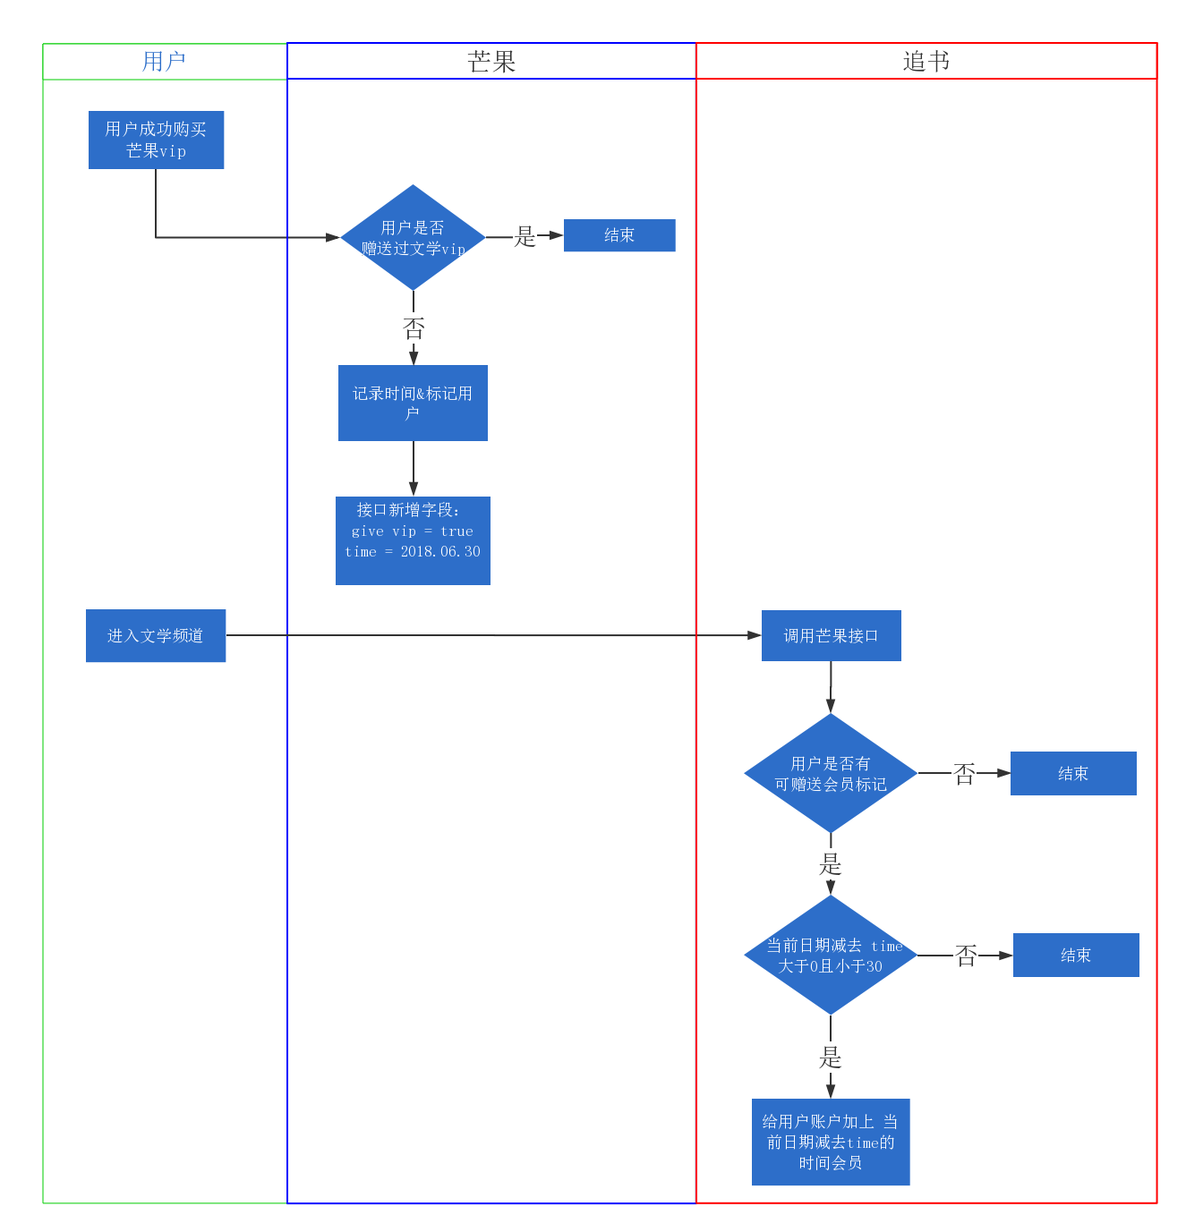
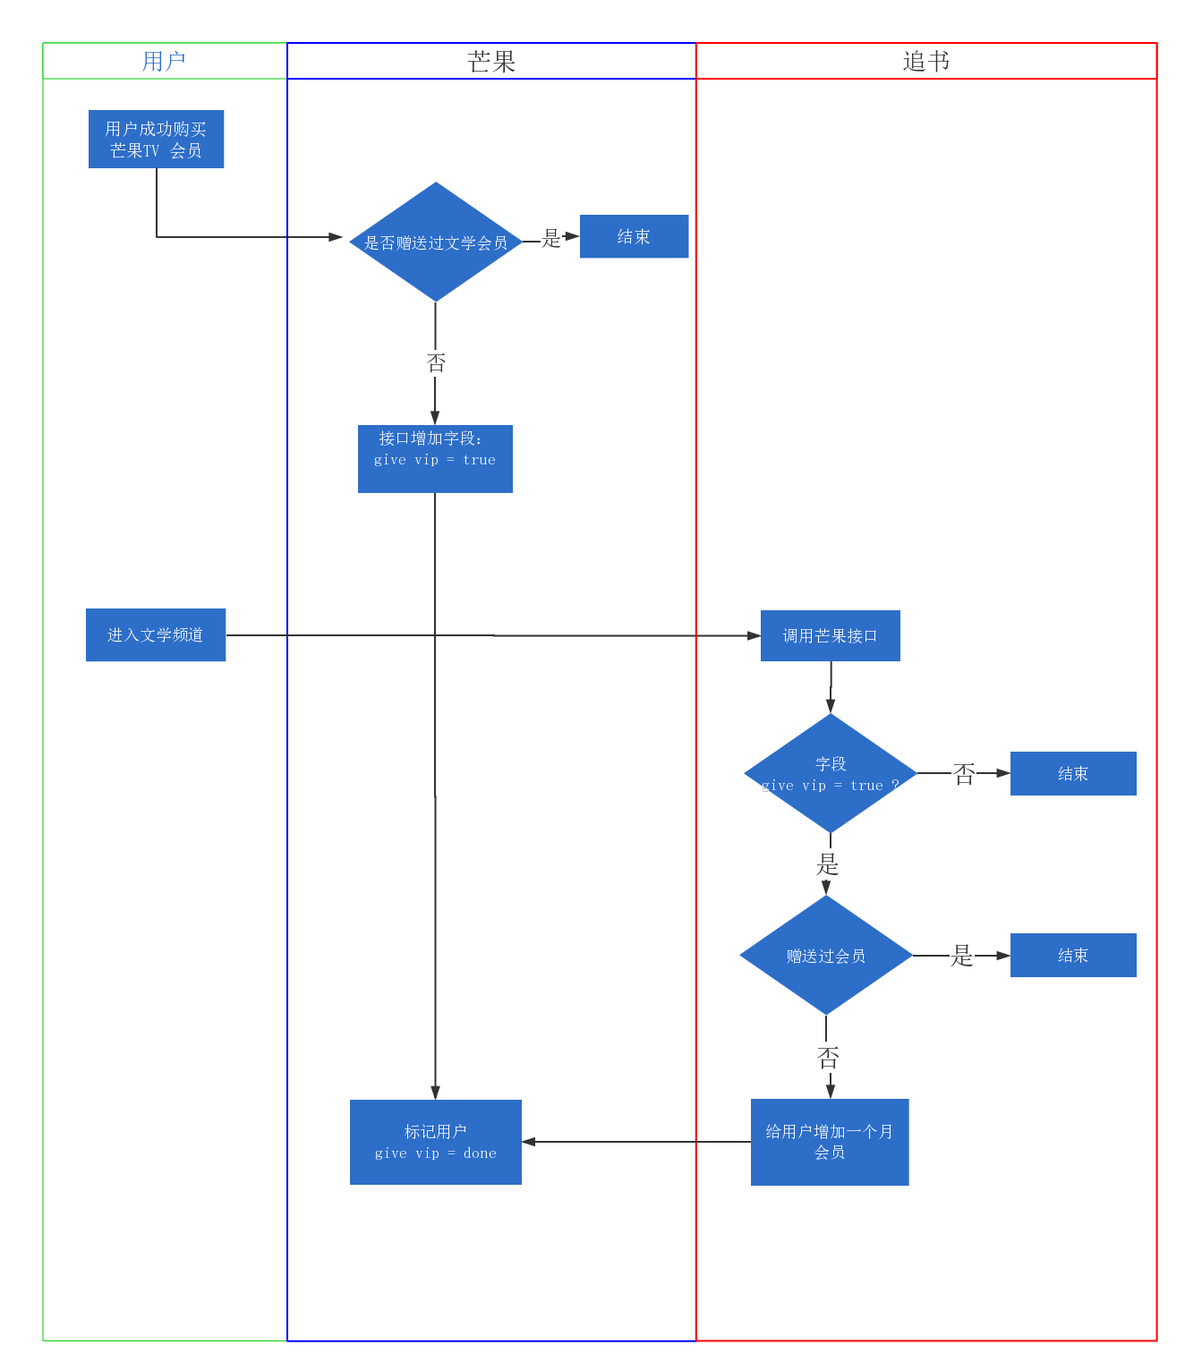
123
321

diff --git a/files/芒果会员送文学会员/data.js b/files/芒果会员送文学会员/data.js
@@ -2,6 +2,6 @@
 (function() {
     var _ = function() { var r={},a=arguments; for(var i=0; i<a.length; i+=2) r[a[i]]=a[i+1]; return r; }
     var _creator = function() { return _(b,c,d,e,f,g,h,g,i,[j],k,_(l,m,n,o,p,q,r,_(),s,_(t,u,v,w,x,_(y,z,A,B),C,null,D,w,E,w,F,G,H,null,I,J,K,L,M,N,O,J),P,_(),Q,_(),R,_(S,[_(T,U,V,W,X,Y,n,Z,ba,Z,bb,bc,s,_(bd,_(be,bf,bg,bh),t,bi,bj,_(bk,bl,bm,bn)),P,_(),bo,_(),S,[_(T,bp,V,W,X,null,bq,bc,n,br,ba,bs,bb,bc,s,_(bd,_(be,bf,bg,bh),t,bi,bj,_(bk,bl,bm,bn)),P,_(),bo,_())],bt,_(bu,bv)),_(T,bw,V,W,X,bx,n,by,ba,by,bb,bc,s,_(bd,_(be,bz,bg,bA),t,bB,bj,_(bk,bC,bm,bD),bE,_(y,z,A,B,bF,bG),x,_(y,z,A,bH)),P,_(),bo,_(),S,[_(T,bI,V,W,X,null,bq,bc,n,br,ba,bs,bb,bc,s,_(bd,_(be,bz,bg,bA),t,bB,bj,_(bk,bC,bm,bD),bE,_(y,z,A,B,bF,bG),x,_(y,z,A,bH)),P,_(),bo,_())],bJ,g),_(T,bK,V,W,X,Y,n,Z,ba,Z,bb,bc,s,_(bd,_(be,bL,bg,bM),t,bi,bj,_(bk,bN,bm,bO)),P,_(),bo,_(),S,[_(T,bP,V,W,X,null,bq,bc,n,br,ba,bs,bb,bc,s,_(bd,_(be,bL,bg,bM),t,bi,bj,_(bk,bN,bm,bO)),P,_(),bo,_())],bt,_(bu,bQ)),_(T,bR,V,W,X,bx,n,by,ba,by,bb,bc,s,_(bd,_(be,bS,bg,bT),t,bB,bj,_(bk,bU,bm,bV),bW,bX),P,_(),bo,_(),S,[_(T,bY,V,W,X,null,bq,bc,n,br,ba,bs,bb,bc,s,_(bd,_(be,bS,bg,bT),t,bB,bj,_(bk,bU,bm,bV),bW,bX),P,_(),bo,_())],bJ,g),_(T,bZ,V,W,X,ca,n,cb,ba,cb,bb,bc,s,_(bj,_(bk,cc,bm,cc)),P,_(),bo,_(),cd,[_(T,ce,V,W,X,bx,n,by,ba,by,bb,bc,s,_(bd,_(be,cf,bg,cg),t,ch,bj,_(bk,ci,bm,cj),M,ck,cl,cm,bW,cn),P,_(),bo,_(),S,[_(T,co,V,W,X,null,bq,bc,n,br,ba,bs,bb,bc,s,_(bd,_(be,cf,bg,cg),t,ch,bj,_(bk,ci,bm,cj),M,ck,cl,cm,bW,cn),P,_(),bo,_())],bJ,g),_(T,cp,V,W,X,bx,n,by,ba,by,bb,bc,s,_(bd,_(be,cq,bg,cr),t,ch,bj,_(bk,cs,bm,ct),M,ck,cu,cv),P,_(),bo,_(),S,[_(T,cw,V,W,X,null,bq,bc,n,br,ba,bs,bb,bc,s,_(bd,_(be,cq,bg,cr),t,ch,bj,_(bk,cs,bm,ct),M,ck,cu,cv),P,_(),bo,_())],bJ,g),_(T,cx,V,W,X,cy,n,by,ba,by,bb,bc,s,_(bd,_(be,cr,bg,cr),t,ch,bj,_(bk,cz,bm,cA),M,ck),P,_(),bo,_(),S,[_(T,cB,V,W,X,null,bq,bc,n,br,ba,bs,bb,bc,s,_(bd,_(be,cr,bg,cr),t,ch,bj,_(bk,cz,bm,cA),M,ck),P,_(),bo,_())],bt,_(bu,cC),bJ,g)],cD,g),_(T,ce,V,W,X,bx,n,by,ba,by,bb,bc,s,_(bd,_(be,cf,bg,cg),t,ch,bj,_(bk,ci,bm,cj),M,ck,cl,cm,bW,cn),P,_(),bo,_(),S,[_(T,co,V,W,X,null,bq,bc,n,br,ba,bs,bb,bc,s,_(bd,_(be,cf,bg,cg),t,ch,bj,_(bk,ci,bm,cj),M,ck,cl,cm,bW,cn),P,_(),bo,_())],bJ,g),_(T,cp,V,W,X,bx,n,by,ba,by,bb,bc,s,_(bd,_(be,cq,bg,cr),t,ch,bj,_(bk,cs,bm,ct),M,ck,cu,cv),P,_(),bo,_(),S,[_(T,cw,V,W,X,null,bq,bc,n,br,ba,bs,bb,bc,s,_(bd,_(be,cq,bg,cr),t,ch,bj,_(bk,cs,bm,ct),M,ck,cu,cv),P,_(),bo,_())],bJ,g),_(T,cx,V,W,X,cy,n,by,ba,by,bb,bc,s,_(bd,_(be,cr,bg,cr),t,ch,bj,_(bk,cz,bm,cA),M,ck),P,_(),bo,_(),S,[_(T,cB,V,W,X,null,bq,bc,n,br,ba,bs,bb,bc,s,_(bd,_(be,cr,bg,cr),t,ch,bj,_(bk,cz,bm,cA),M,ck),P,_(),bo,_())],bt,_(bu,cC),bJ,g),_(T,cE,V,W,X,bx,n,by,ba,by,bb,bc,s,_(bd,_(be,cF,bg,cG),t,cH,bj,_(bk,cI,bm,cJ),bE,_(y,z,A,cK,bF,bG),bW,cL),P,_(),bo,_(),S,[_(T,cM,V,W,X,null,bq,bc,n,br,ba,bs,bb,bc,s,_(bd,_(be,cF,bg,cG),t,cH,bj,_(bk,cI,bm,cJ),bE,_(y,z,A,cK,bF,bG),bW,cL),P,_(),bo,_())],bJ,g),_(T,cN,V,W,X,bx,n,by,ba,by,bb,bc,s,_(bd,_(be,cO,bg,cG),t,cH,bj,_(bk,cP,bm,cQ),bE,_(y,z,A,cK,bF,bG),bW,cL),P,_(),bo,_(),S,[_(T,cR,V,W,X,null,bq,bc,n,br,ba,bs,bb,bc,s,_(bd,_(be,cO,bg,cG),t,cH,bj,_(bk,cP,bm,cQ),bE,_(y,z,A,cK,bF,bG),bW,cL),P,_(),bo,_())],bJ,g),_(T,cS,V,W,X,bx,n,by,ba,by,bb,bc,s,_(cT,cU,bd,_(be,cV,bg,cW),t,cX,bj,_(bk,cY,bm,cZ)),P,_(),bo,_(),S,[_(T,da,V,W,X,null,bq,bc,n,br,ba,bs,bb,bc,s,_(cT,cU,bd,_(be,cV,bg,cW),t,cX,bj,_(bk,cY,bm,cZ)),P,_(),bo,_())],bJ,g),_(T,db,V,W,X,bx,n,by,ba,by,bb,bc,s,_(cT,cU,bd,_(be,dc,bg,cW),t,cX,bj,_(bk,dd,bm,cZ)),P,_(),bo,_(),S,[_(T,de,V,W,X,null,bq,bc,n,br,ba,bs,bb,bc,s,_(cT,cU,bd,_(be,dc,bg,cW),t,cX,bj,_(bk,dd,bm,cZ)),P,_(),bo,_())],bJ,g),_(T,df,V,W,X,Y,n,Z,ba,Z,bb,bc,s,_(bd,_(be,bf,bg,bh),t,bi,bj,_(bk,dg,bm,bn)),P,_(),bo,_(),S,[_(T,dh,V,W,X,null,bq,bc,n,br,ba,bs,bb,bc,s,_(bd,_(be,bf,bg,bh),t,bi,bj,_(bk,dg,bm,bn)),P,_(),bo,_())],bt,_(bu,bv)),_(T,di,V,W,X,Y,n,Z,ba,Z,bb,bc,s,_(bd,_(be,bf,bg,bh),t,bi,bj,_(bk,dj,bm,bn)),P,_(),bo,_(),S,[_(T,dk,V,W,X,null,bq,bc,n,br,ba,bs,bb,bc,s,_(bd,_(be,bf,bg,bh),t,bi,bj,_(bk,dj,bm,bn)),P,_(),bo,_())],bt,_(bu,bv)),_(T,dl,V,W,X,ca,n,cb,ba,cb,bb,bc,s,_(bj,_(bk,dm,bm,dn)),P,_(),bo,_(),cd,[_(T,dp,V,W,X,bx,n,by,ba,by,bb,bc,s,_(bd,_(be,cf,bg,cg),t,ch,bj,_(bk,dq,bm,dr),M,ck,cl,cm,bW,cn),P,_(),bo,_(),S,[_(T,ds,V,W,X,null,bq,bc,n,br,ba,bs,bb,bc,s,_(bd,_(be,cf,bg,cg),t,ch,bj,_(bk,dq,bm,dr),M,ck,cl,cm,bW,cn),P,_(),bo,_())],bJ,g),_(T,dt,V,W,X,bx,n,by,ba,by,bb,bc,s,_(bd,_(be,cq,bg,cr),t,ch,bj,_(bk,du,bm,dv),M,ck,cu,cv),P,_(),bo,_(),S,[_(T,dw,V,W,X,null,bq,bc,n,br,ba,bs,bb,bc,s,_(bd,_(be,cq,bg,cr),t,ch,bj,_(bk,du,bm,dv),M,ck,cu,cv),P,_(),bo,_())],bJ,g),_(T,dx,V,W,X,cy,n,by,ba,by,bb,bc,s,_(bd,_(be,cr,bg,cr),t,ch,bj,_(bk,dy,bm,dz),M,ck),P,_(),bo,_(),S,[_(T,dA,V,W,X,null,bq,bc,n,br,ba,bs,bb,bc,s,_(bd,_(be,cr,bg,cr),t,ch,bj,_(bk,dy,bm,dz),M,ck),P,_(),bo,_())],bt,_(bu,cC),bJ,g)],cD,g),_(T,dp,V,W,X,bx,n,by,ba,by,bb,bc,s,_(bd,_(be,cf,bg,cg),t,ch,bj,_(bk,dq,bm,dr),M,ck,cl,cm,bW,cn),P,_(),bo,_(),S,[_(T,ds,V,W,X,null,bq,bc,n,br,ba,bs,bb,bc,s,_(bd,_(be,cf,bg,cg),t,ch,bj,_(bk,dq,bm,dr),M,ck,cl,cm,bW,cn),P,_(),bo,_())],bJ,g),_(T,dt,V,W,X,bx,n,by,ba,by,bb,bc,s,_(bd,_(be,cq,bg,cr),t,ch,bj,_(bk,du,bm,dv),M,ck,cu,cv),P,_(),bo,_(),S,[_(T,dw,V,W,X,null,bq,bc,n,br,ba,bs,bb,bc,s,_(bd,_(be,cq,bg,cr),t,ch,bj,_(bk,du,bm,dv),M,ck,cu,cv),P,_(),bo,_())],bJ,g),_(T,dx,V,W,X,cy,n,by,ba,by,bb,bc,s,_(bd,_(be,cr,bg,cr),t,ch,bj,_(bk,dy,bm,dz),M,ck),P,_(),bo,_(),S,[_(T,dA,V,W,X,null,bq,bc,n,br,ba,bs,bb,bc,s,_(bd,_(be,cr,bg,cr),t,ch,bj,_(bk,dy,bm,dz),M,ck),P,_(),bo,_())],bt,_(bu,cC),bJ,g),_(T,dB,V,W,X,cy,n,by,ba,by,bb,bc,s,_(bd,_(be,dC,bg,dC),t,dD,bj,_(bk,dg,bm,dE),x,_(y,z,A,dF)),P,_(),bo,_(),S,[_(T,dG,V,W,X,null,bq,bc,n,br,ba,bs,bb,bc,s,_(bd,_(be,dC,bg,dC),t,dD,bj,_(bk,dg,bm,dE),x,_(y,z,A,dF)),P,_(),bo,_())],bt,_(bu,dH),bJ,g),_(T,dI,V,W,X,dJ,n,by,ba,dK,bb,bc,s,_(bd,_(be,dL,bg,dM),t,dN,bj,_(bk,dO,bm,dP),O,dQ,dR,_(y,z,A,dS),dT,dU,dV,dU),P,_(),bo,_(),S,[_(T,dW,V,W,X,null,bq,bc,n,br,ba,bs,bb,bc,s,_(bd,_(be,dL,bg,dM),t,dN,bj,_(bk,dO,bm,dP),O,dQ,dR,_(y,z,A,dS),dT,dU,dV,dU),P,_(),bo,_())],bt,_(bu,dX),bJ,bc,dY,[dZ,ea],bt,_(dZ,_(bu,eb),ea,_(bu,ec),bu,dX))])),ed,_(),ee,_(ef,_(eg,eh),ei,_(eg,ej),ek,_(eg,el),em,_(eg,en),eo,_(eg,ep),eq,_(eg,er),es,_(eg,et),eu,_(eg,ev),ew,_(eg,ex),ey,_(eg,ez),eA,_(eg,eB),eC,_(eg,eD),eE,_(eg,eF),eG,_(eg,eH),eI,_(eg,eJ),eK,_(eg,eL),eM,_(eg,eN),eO,_(eg,eP),eQ,_(eg,eR),eS,_(eg,eT),eU,_(eg,eV),eW,_(eg,eX),eY,_(eg,eZ),fa,_(eg,fb),fc,_(eg,fd),fe,_(eg,ff),fg,_(eg,fh),fi,_(eg,fj),fk,_(eg,fl),fm,_(eg,fn),fo,_(eg,fp),fq,_(eg,fr),fs,_(eg,ft),fu,_(eg,fv),fw,_(eg,fx),fy,_(eg,fz),fA,_(eg,fB),fC,_(eg,fD)));}; 
-var b="url",c="芒果会员送文学会员.html",d="generationDate",e=new Date(1530515847971.73),f="isCanvasEnabled",g=false,h="isAdaptiveEnabled",i="variables",j="OnLoadVariable",k="page",l="packageId",m="021b88ffa0224ed7982f22ff8a187bc5",n="type",o="Axure:Page",p="name",q="芒果会员送文学会员",r="notes",s="style",t="baseStyle",u="627587b6038d43cca051c114ac41ad32",v="pageAlignment",w="near",x="fill",y="fillType",z="solid",A="color",B=0xFFFFFFFF,C="image",D="imageHorizontalAlignment",E="imageVerticalAlignment",F="imageRepeat",G="auto",H="favicon",I="sketchFactor",J="0",K="colorStyle",L="appliedColor",M="fontName",N="Applied Font",O="borderWidth",P="adaptiveStyles",Q="interactionMap",R="diagram",S="objects",T="id",U="77c4c538c2cf413da49fbb4011884fb5",V="label",W="",X="friendlyType",Y="图片",Z="imageBox",ba="styleType",bb="visible",bc=true,bd="size",be="width",bf=368,bg="height",bh=670,bi="75a91ee5b9d042cfa01b8d565fe289c0",bj="location",bk="x",bl=206.75,bm="y",bn=656.75,bo="imageOverrides",bp="b71bf5fc64024671bc5188ee6166d472",bq="isContained",br="richTextPanel",bs="paragraph",bt="images",bu="normal~",bv="images/芒果会员送文学会员/u0.jpeg",bw="3fe9651a6d9c41eea3663d3adb21a2d4",bx="矩形",by="vectorShape",bz=814,bA=138,bB="8c7a4c5ad69a4369a5f7788171ac0b32",bC=67,bD=21,bE="foreGroundFill",bF="opacity",bG=1,bH=0xFF0099FF,bI="aa1e7b087da54308afc25722f6915cfb",bJ="generateCompound",bK="8d8e5f1934d3438aafe4f298c9423ea7",bL=1320,bM=1377,bN=101,bO=1783.5,bP="df25000fa3164e4b8d8f30d7cd1307db",bQ="images/芒果会员送文学会员/u4.png",bR="8f5c337b1dd4477d911d0801567db50c",bS=1269,bT=191,bU=139,bV=1518.5,bW="fontSize",bX="20px",bY="132102fac1494bc6ae23631245573ee6",bZ="17d888d8fb264764aa5e8947208f24ea",ca="组合",cb="layer",cc=0,cd="objs",ce="d5fb9875a6854e0ab7a809bff0fa54da",cf=270,cg=156,ch="4b7bfc596114427989e10bb0b557d0ce",ci=252.75,cj=943.75,ck="'PingFangSC-Regular', 'PingFang SC'",cl="verticalAlignment",cm="top",cn="16px",co="b0f741b240b0463eb9131dfaf3c468e2",cp="0b55387f8a614d27a407226d0d0d28a5",cq=146,cr=35,cs=316.75,ct=1059.75,cu="cornerRadius",cv="5",cw="737b59bbd2074d968cc6156161a74677",cx="0063a460c9c748dc8b26d8bddecdf03a",cy="椭圆形",cz=502.75,cA=925.75,cB="2fcda6c066294764aa8005c8c84c39d0",cC="images/芒果会员送文学会员/u13.png",cD="propagate",cE="d42d20ab182243d38f0c6986b0f3944c",cF=113,cG=40,cH="1111111151944dfba49f67fd55eb1f88",cI=132,cJ=1430.5,cK=0xFF0000FF,cL="28px",cM="c615bca7149e4e20821394f8f2c1d75e",cN="806bcfa77c694141adfccde7a7f3e934",cO=141,cP=92.75,cQ=386.75,cR="ffad2ed67a1643f8b8f84d0e854789a2",cS="abba3e1d7d26402aaa1eebcab00b8fb7",cT="fontWeight",cU="700",cV=492,cW=33,cX="b3a15c9ddde04520be40f94c8168891e",cY=172.75,cZ=488.75,da="c170e74302ff411cb6e339be385e2a5d",db="1ea6e22a34184193b600432822d66a1d",dc=732,dd=865.75,de="39bae910631b4fff856905638dda8ada",df="e727c8ec81024bc8ad08072d42302b28",dg=887.75,dh="de40fdf4a7b548a5859f6bd12b5dbeb1",di="0a1e934cadb24117b7d619914fdbc300",dj=1478.75,dk="8cc4bbc239fb482bad2f5b2a7026b217",dl="32263910f1424a0098128aacf02fb4c4",dm=920.25,dn=662,dp="bbce7ce89b624f20b978b5c78d456ca5",dq=1526.75,dr=931.75,ds="9e34a479255e493d95ad57998387bfc4",dt="2d9814a5c0c74c07a4aff98e73f8e22b",du=1590.75,dv=1047.75,dw="f6f568b5f6224d968810ce22780fd305",dx="f4bbd4e613e34fed80ae02e58f9b42cd",dy=1776.75,dz=913.75,dA="b1084b8a35cf43f6966bb48cafeed3e9",dB="027bbe82cbda485188f5d9b493d488d4",dC=50,dD="7bfbf33582fc47a88668e6787c8e3e9b",dE=682.75,dF=0x389966FF,dG="ed94f4becd7b4746943b01f020ad8092",dH="images/芒果会员送文学会员/u34.png",dI="3710c92bf0d540158eefc092150f57e4",dJ="水平线",dK="horizontalLine",dL=622,dM=2,dN="619b2148ccc1497285562264d51992f9",dO=896.75,dP=871.75,dQ="2",dR="borderFill",dS=0xFF9966FF,dT="rotation",dU="30",dV="textRotation",dW="6dd81b687cc44837b050241276e8d9c2",dX="images/芒果会员送文学会员/u36.png",dY="compoundChildren",dZ="p000",ea="p001",eb="images/芒果会员送文学会员/u36p000.png",ec="images/芒果会员送文学会员/u36p001.png",ed="masters",ee="objectPaths",ef="77c4c538c2cf413da49fbb4011884fb5",eg="scriptId",eh="u0",ei="b71bf5fc64024671bc5188ee6166d472",ej="u1",ek="3fe9651a6d9c41eea3663d3adb21a2d4",el="u2",em="aa1e7b087da54308afc25722f6915cfb",en="u3",eo="8d8e5f1934d3438aafe4f298c9423ea7",ep="u4",eq="df25000fa3164e4b8d8f30d7cd1307db",er="u5",es="8f5c337b1dd4477d911d0801567db50c",et="u6",eu="132102fac1494bc6ae23631245573ee6",ev="u7",ew="17d888d8fb264764aa5e8947208f24ea",ex="u8",ey="d5fb9875a6854e0ab7a809bff0fa54da",ez="u9",eA="b0f741b240b0463eb9131dfaf3c468e2",eB="u10",eC="0b55387f8a614d27a407226d0d0d28a5",eD="u11",eE="737b59bbd2074d968cc6156161a74677",eF="u12",eG="0063a460c9c748dc8b26d8bddecdf03a",eH="u13",eI="2fcda6c066294764aa8005c8c84c39d0",eJ="u14",eK="d42d20ab182243d38f0c6986b0f3944c",eL="u15",eM="c615bca7149e4e20821394f8f2c1d75e",eN="u16",eO="806bcfa77c694141adfccde7a7f3e934",eP="u17",eQ="ffad2ed67a1643f8b8f84d0e854789a2",eR="u18",eS="abba3e1d7d26402aaa1eebcab00b8fb7",eT="u19",eU="c170e74302ff411cb6e339be385e2a5d",eV="u20",eW="1ea6e22a34184193b600432822d66a1d",eX="u21",eY="39bae910631b4fff856905638dda8ada",eZ="u22",fa="e727c8ec81024bc8ad08072d42302b28",fb="u23",fc="de40fdf4a7b548a5859f6bd12b5dbeb1",fd="u24",fe="0a1e934cadb24117b7d619914fdbc300",ff="u25",fg="8cc4bbc239fb482bad2f5b2a7026b217",fh="u26",fi="32263910f1424a0098128aacf02fb4c4",fj="u27",fk="bbce7ce89b624f20b978b5c78d456ca5",fl="u28",fm="9e34a479255e493d95ad57998387bfc4",fn="u29",fo="2d9814a5c0c74c07a4aff98e73f8e22b",fp="u30",fq="f6f568b5f6224d968810ce22780fd305",fr="u31",fs="f4bbd4e613e34fed80ae02e58f9b42cd",ft="u32",fu="b1084b8a35cf43f6966bb48cafeed3e9",fv="u33",fw="027bbe82cbda485188f5d9b493d488d4",fx="u34",fy="ed94f4becd7b4746943b01f020ad8092",fz="u35",fA="3710c92bf0d540158eefc092150f57e4",fB="u36",fC="6dd81b687cc44837b050241276e8d9c2",fD="u37";
+var b="url",c="芒果会员送文学会员.html",d="generationDate",e=new Date(1530518861386.24),f="isCanvasEnabled",g=false,h="isAdaptiveEnabled",i="variables",j="OnLoadVariable",k="page",l="packageId",m="021b88ffa0224ed7982f22ff8a187bc5",n="type",o="Axure:Page",p="name",q="芒果会员送文学会员",r="notes",s="style",t="baseStyle",u="627587b6038d43cca051c114ac41ad32",v="pageAlignment",w="near",x="fill",y="fillType",z="solid",A="color",B=0xFFFFFFFF,C="image",D="imageHorizontalAlignment",E="imageVerticalAlignment",F="imageRepeat",G="auto",H="favicon",I="sketchFactor",J="0",K="colorStyle",L="appliedColor",M="fontName",N="Applied Font",O="borderWidth",P="adaptiveStyles",Q="interactionMap",R="diagram",S="objects",T="id",U="77c4c538c2cf413da49fbb4011884fb5",V="label",W="",X="friendlyType",Y="图片",Z="imageBox",ba="styleType",bb="visible",bc=true,bd="size",be="width",bf=368,bg="height",bh=670,bi="75a91ee5b9d042cfa01b8d565fe289c0",bj="location",bk="x",bl=206.75,bm="y",bn=656.75,bo="imageOverrides",bp="b71bf5fc64024671bc5188ee6166d472",bq="isContained",br="richTextPanel",bs="paragraph",bt="images",bu="normal~",bv="images/芒果会员送文学会员/u0.jpeg",bw="3fe9651a6d9c41eea3663d3adb21a2d4",bx="矩形",by="vectorShape",bz=814,bA=138,bB="8c7a4c5ad69a4369a5f7788171ac0b32",bC=67,bD=21,bE="foreGroundFill",bF="opacity",bG=1,bH=0xFF0099FF,bI="aa1e7b087da54308afc25722f6915cfb",bJ="generateCompound",bK="8d8e5f1934d3438aafe4f298c9423ea7",bL=1320,bM=1377,bN=101,bO=1784,bP="df25000fa3164e4b8d8f30d7cd1307db",bQ="images/芒果会员送文学会员/u4.png",bR="8f5c337b1dd4477d911d0801567db50c",bS=1269,bT=191,bU=139,bV=1518.5,bW="fontSize",bX="20px",bY="132102fac1494bc6ae23631245573ee6",bZ="17d888d8fb264764aa5e8947208f24ea",ca="组合",cb="layer",cc=0,cd="objs",ce="d5fb9875a6854e0ab7a809bff0fa54da",cf=270,cg=156,ch="4b7bfc596114427989e10bb0b557d0ce",ci=252.75,cj=943.75,ck="'PingFangSC-Regular', 'PingFang SC'",cl="verticalAlignment",cm="top",cn="16px",co="b0f741b240b0463eb9131dfaf3c468e2",cp="0b55387f8a614d27a407226d0d0d28a5",cq=146,cr=35,cs=316.75,ct=1059.75,cu="cornerRadius",cv="5",cw="737b59bbd2074d968cc6156161a74677",cx="0063a460c9c748dc8b26d8bddecdf03a",cy="椭圆形",cz=502.75,cA=925.75,cB="2fcda6c066294764aa8005c8c84c39d0",cC="images/芒果会员送文学会员/u13.png",cD="propagate",cE="d42d20ab182243d38f0c6986b0f3944c",cF=113,cG=40,cH="1111111151944dfba49f67fd55eb1f88",cI=132,cJ=1430.5,cK=0xFF0000FF,cL="28px",cM="c615bca7149e4e20821394f8f2c1d75e",cN="806bcfa77c694141adfccde7a7f3e934",cO=141,cP=92.75,cQ=386.75,cR="ffad2ed67a1643f8b8f84d0e854789a2",cS="abba3e1d7d26402aaa1eebcab00b8fb7",cT="fontWeight",cU="700",cV=569,cW=99,cX="b3a15c9ddde04520be40f94c8168891e",cY=173,cZ=489,da="c170e74302ff411cb6e339be385e2a5d",db="1ea6e22a34184193b600432822d66a1d",dc=657,dd=866,de="39bae910631b4fff856905638dda8ada",df="e727c8ec81024bc8ad08072d42302b28",dg=887.75,dh="de40fdf4a7b548a5859f6bd12b5dbeb1",di="0a1e934cadb24117b7d619914fdbc300",dj=1478.75,dk="8cc4bbc239fb482bad2f5b2a7026b217",dl="32263910f1424a0098128aacf02fb4c4",dm=920.25,dn=662,dp="bbce7ce89b624f20b978b5c78d456ca5",dq=1526.75,dr=931.75,ds="9e34a479255e493d95ad57998387bfc4",dt="2d9814a5c0c74c07a4aff98e73f8e22b",du=1590.75,dv=1047.75,dw="f6f568b5f6224d968810ce22780fd305",dx="f4bbd4e613e34fed80ae02e58f9b42cd",dy=1776.75,dz=913.75,dA="b1084b8a35cf43f6966bb48cafeed3e9",dB="027bbe82cbda485188f5d9b493d488d4",dC=50,dD="7bfbf33582fc47a88668e6787c8e3e9b",dE=682.75,dF=0x389966FF,dG="ed94f4becd7b4746943b01f020ad8092",dH="images/芒果会员送文学会员/u34.png",dI="3710c92bf0d540158eefc092150f57e4",dJ="水平线",dK="horizontalLine",dL=622,dM=2,dN="619b2148ccc1497285562264d51992f9",dO=896.75,dP=871.75,dQ="2",dR="borderFill",dS=0xFF9966FF,dT="rotation",dU="30",dV="textRotation",dW="6dd81b687cc44837b050241276e8d9c2",dX="images/芒果会员送文学会员/u36.png",dY="compoundChildren",dZ="p000",ea="p001",eb="images/芒果会员送文学会员/u36p000.png",ec="images/芒果会员送文学会员/u36p001.png",ed="masters",ee="objectPaths",ef="77c4c538c2cf413da49fbb4011884fb5",eg="scriptId",eh="u0",ei="b71bf5fc64024671bc5188ee6166d472",ej="u1",ek="3fe9651a6d9c41eea3663d3adb21a2d4",el="u2",em="aa1e7b087da54308afc25722f6915cfb",en="u3",eo="8d8e5f1934d3438aafe4f298c9423ea7",ep="u4",eq="df25000fa3164e4b8d8f30d7cd1307db",er="u5",es="8f5c337b1dd4477d911d0801567db50c",et="u6",eu="132102fac1494bc6ae23631245573ee6",ev="u7",ew="17d888d8fb264764aa5e8947208f24ea",ex="u8",ey="d5fb9875a6854e0ab7a809bff0fa54da",ez="u9",eA="b0f741b240b0463eb9131dfaf3c468e2",eB="u10",eC="0b55387f8a614d27a407226d0d0d28a5",eD="u11",eE="737b59bbd2074d968cc6156161a74677",eF="u12",eG="0063a460c9c748dc8b26d8bddecdf03a",eH="u13",eI="2fcda6c066294764aa8005c8c84c39d0",eJ="u14",eK="d42d20ab182243d38f0c6986b0f3944c",eL="u15",eM="c615bca7149e4e20821394f8f2c1d75e",eN="u16",eO="806bcfa77c694141adfccde7a7f3e934",eP="u17",eQ="ffad2ed67a1643f8b8f84d0e854789a2",eR="u18",eS="abba3e1d7d26402aaa1eebcab00b8fb7",eT="u19",eU="c170e74302ff411cb6e339be385e2a5d",eV="u20",eW="1ea6e22a34184193b600432822d66a1d",eX="u21",eY="39bae910631b4fff856905638dda8ada",eZ="u22",fa="e727c8ec81024bc8ad08072d42302b28",fb="u23",fc="de40fdf4a7b548a5859f6bd12b5dbeb1",fd="u24",fe="0a1e934cadb24117b7d619914fdbc300",ff="u25",fg="8cc4bbc239fb482bad2f5b2a7026b217",fh="u26",fi="32263910f1424a0098128aacf02fb4c4",fj="u27",fk="bbce7ce89b624f20b978b5c78d456ca5",fl="u28",fm="9e34a479255e493d95ad57998387bfc4",fn="u29",fo="2d9814a5c0c74c07a4aff98e73f8e22b",fp="u30",fq="f6f568b5f6224d968810ce22780fd305",fr="u31",fs="f4bbd4e613e34fed80ae02e58f9b42cd",ft="u32",fu="b1084b8a35cf43f6966bb48cafeed3e9",fv="u33",fw="027bbe82cbda485188f5d9b493d488d4",fx="u34",fy="ed94f4becd7b4746943b01f020ad8092",fz="u35",fA="3710c92bf0d540158eefc092150f57e4",fB="u36",fC="6dd81b687cc44837b050241276e8d9c2",fD="u37";
 return _creator();
 })());

diff --git a/files/芒果文学相关/data.js b/files/芒果文学相关/data.js
@@ -2,6 +2,6 @@
 (function() {
     var _ = function() { var r={},a=arguments; for(var i=0; i<a.length; i+=2) r[a[i]]=a[i+1]; return r; }
     var _creator = function() { return _(b,c,d,e,f,g,h,g,i,[j],k,_(l,m,n,o,p,q,r,_(),s,_(t,u,v,w,x,_(y,z,A,B),C,null,D,w,E,w,F,G,H,null,I,J,K,L,M,N,O,J),P,_(),Q,_(),R,_(S,[_(T,U,V,W,X,Y,n,Z,ba,Z,bb,bc,s,_(bd,be,bf,_(bg,bh,bi,bj),t,bk,bl,_(bm,bn,bo,bp)),P,_(),bq,_(),S,[_(T,br,V,W,X,null,bs,bc,n,bt,ba,bu,bb,bc,s,_(bd,be,bf,_(bg,bh,bi,bj),t,bk,bl,_(bm,bn,bo,bp)),P,_(),bq,_())],bv,g)])),bw,_(),bx,_(by,_(bz,bA),bB,_(bz,bC)));}; 
-var b="url",c="芒果文学相关.html",d="generationDate",e=new Date(1530515848064.46),f="isCanvasEnabled",g=false,h="isAdaptiveEnabled",i="variables",j="OnLoadVariable",k="page",l="packageId",m="72e0f2bce87146398093abb659b04e93",n="type",o="Axure:Page",p="name",q="芒果文学相关",r="notes",s="style",t="baseStyle",u="627587b6038d43cca051c114ac41ad32",v="pageAlignment",w="near",x="fill",y="fillType",z="solid",A="color",B=0xFFFFFFFF,C="image",D="imageHorizontalAlignment",E="imageVerticalAlignment",F="imageRepeat",G="auto",H="favicon",I="sketchFactor",J="0",K="colorStyle",L="appliedColor",M="fontName",N="Applied Font",O="borderWidth",P="adaptiveStyles",Q="interactionMap",R="diagram",S="objects",T="id",U="8d4908de469f4d08ba484b5ea6a62c2c",V="label",W="",X="friendlyType",Y="矩形",Z="vectorShape",ba="styleType",bb="visible",bc=true,bd="fontWeight",be="700",bf="size",bg="width",bh=635,bi="height",bj=579,bk="8c7a4c5ad69a4369a5f7788171ac0b32",bl="location",bm="x",bn=93,bo="y",bp=51,bq="imageOverrides",br="b6d0607b835c4b9aa27c2ac19f3509f2",bs="isContained",bt="richTextPanel",bu="paragraph",bv="generateCompound",bw="masters",bx="objectPaths",by="8d4908de469f4d08ba484b5ea6a62c2c",bz="scriptId",bA="u38",bB="b6d0607b835c4b9aa27c2ac19f3509f2",bC="u39";
+var b="url",c="芒果文学相关.html",d="generationDate",e=new Date(1530518861421.95),f="isCanvasEnabled",g=false,h="isAdaptiveEnabled",i="variables",j="OnLoadVariable",k="page",l="packageId",m="72e0f2bce87146398093abb659b04e93",n="type",o="Axure:Page",p="name",q="芒果文学相关",r="notes",s="style",t="baseStyle",u="627587b6038d43cca051c114ac41ad32",v="pageAlignment",w="near",x="fill",y="fillType",z="solid",A="color",B=0xFFFFFFFF,C="image",D="imageHorizontalAlignment",E="imageVerticalAlignment",F="imageRepeat",G="auto",H="favicon",I="sketchFactor",J="0",K="colorStyle",L="appliedColor",M="fontName",N="Applied Font",O="borderWidth",P="adaptiveStyles",Q="interactionMap",R="diagram",S="objects",T="id",U="8d4908de469f4d08ba484b5ea6a62c2c",V="label",W="",X="friendlyType",Y="矩形",Z="vectorShape",ba="styleType",bb="visible",bc=true,bd="fontWeight",be="700",bf="size",bg="width",bh=635,bi="height",bj=579,bk="8c7a4c5ad69a4369a5f7788171ac0b32",bl="location",bm="x",bn=93,bo="y",bp=51,bq="imageOverrides",br="b6d0607b835c4b9aa27c2ac19f3509f2",bs="isContained",bt="richTextPanel",bu="paragraph",bv="generateCompound",bw="masters",bx="objectPaths",by="8d4908de469f4d08ba484b5ea6a62c2c",bz="scriptId",bA="u38",bB="b6d0607b835c4b9aa27c2ac19f3509f2",bC="u39";
 return _creator();
 })());

diff --git a/芒果会员送文学会员.html b/芒果会员送文学会员.html
@@ -65,7 +65,7 @@
         <div id="u2_div" class=""></div>
         <!-- Unnamed () -->
         <div id="u3" class="text">
-          <p style="font-size:28px;"><span>用户购买芒果TV会员赠送1个月芒果文学会员</span></p><p style="font-size:20px;"><span>1.用户购买芒果tv任意会员赠送芒果文学会员1个月</span></p><p style="font-size:20px;"><span>2.每个用户最多拥有1次机会</span></p><p style="font-size:20px;"><span>3.芒果文学会员生效时间为用户购买芒果TV会员之后</span></p>
+          <p style="font-size:28px;"><span>用户购买芒果TV会员赠送1个月芒果文学会员</span></p><p style="font-size:20px;"><span>1.用户购买芒果tv任意会员赠送芒果文学会员1个月</span></p><p style="font-size:20px;"><span>2.每个用户最多拥有1次机会</span></p><p style="font-size:20px;"><span>3.芒果文学会员生效时间为用户进入小说站点之后</span></p>
         </div>
       </div>
 
@@ -141,7 +141,7 @@
         <div id="u19_div" class=""></div>
         <!-- Unnamed () -->
         <div id="u20" class="text">
-          <p><span>方案一：在vip购买成功页面，给用户弹窗提示</span></p>
+          <p><span>方案一：</span></p><p><span>1:在购买会员页面增加1个特权说明：[文学会员1个月]</span></p><p><span>2:在vip购买成功页面，给用户弹窗提示</span></p>
         </div>
       </div>
 
@@ -150,7 +150,7 @@
         <div id="u21_div" class=""></div>
         <!-- Unnamed () -->
         <div id="u22" class="text">
-          <p><span>方案二：在vip购买成功页面，用户点击返回按钮，给用户弹窗提示。</span></p>
+          <p><span>方案二：</span></p><p><span>1:在购买会员页面增加1个特权说明：[文学会员1个月]</span></p><p><span>2:在vip购买成功页面，用户点击返回按钮，给用户弹窗提示。</span></p>
         </div>
       </div>
 

diff --git a/files/芒果会员送文学会员/styles.css b/files/芒果会员送文学会员/styles.css
@@ -313,8 +313,8 @@
   position:absolute;
   left:0px;
   top:0px;
-  width:492px;
-  height:33px;
+  width:569px;
+  height:99px;
   background:inherit;
   background-color:rgba(255, 255, 255, 0);
   border:none;
@@ -330,8 +330,8 @@
   position:absolute;
   left:173px;
   top:489px;
-  width:492px;
-  height:33px;
+  width:569px;
+  height:99px;
   font-family:'Arial-BoldMT', 'Arial Bold', 'Arial';
   font-weight:700;
   font-style:normal;
@@ -340,15 +340,15 @@
   position:absolute;
   left:0px;
   top:0px;
-  width:492px;
+  width:569px;
   white-space:nowrap;
 }
 #u21_div {
   position:absolute;
   left:0px;
   top:0px;
-  width:732px;
-  height:33px;
+  width:657px;
+  height:99px;
   background:inherit;
   background-color:rgba(255, 255, 255, 0);
   border:none;
@@ -364,8 +364,8 @@
   position:absolute;
   left:866px;
   top:489px;
-  width:732px;
-  height:33px;
+  width:657px;
+  height:99px;
   font-family:'Arial-BoldMT', 'Arial Bold', 'Arial';
   font-weight:700;
   font-style:normal;
@@ -374,7 +374,7 @@
   position:absolute;
   left:0px;
   top:0px;
-  width:732px;
+  width:657px;
   white-space:nowrap;
 }
 #u23_img {
